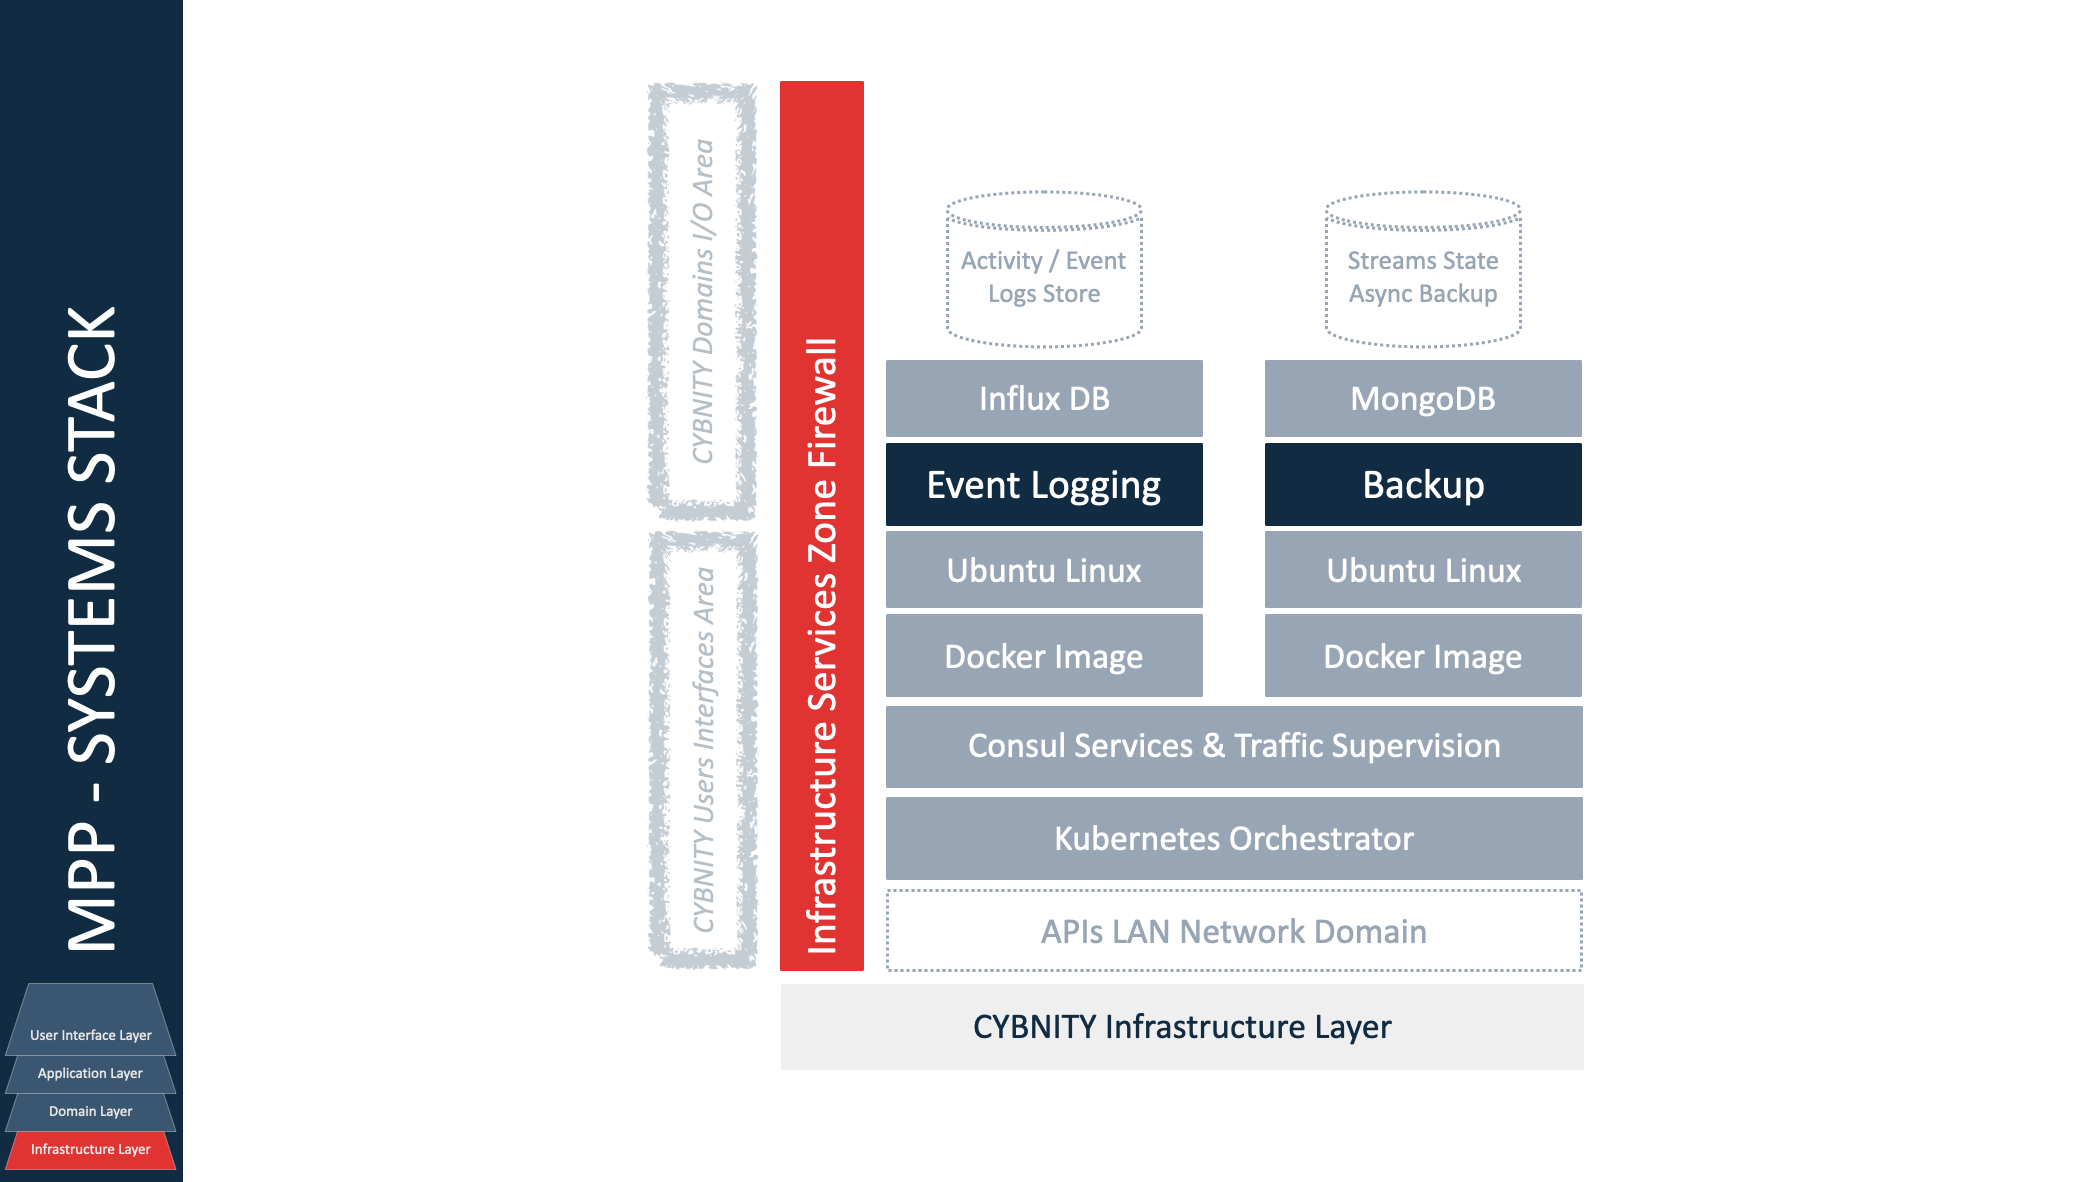
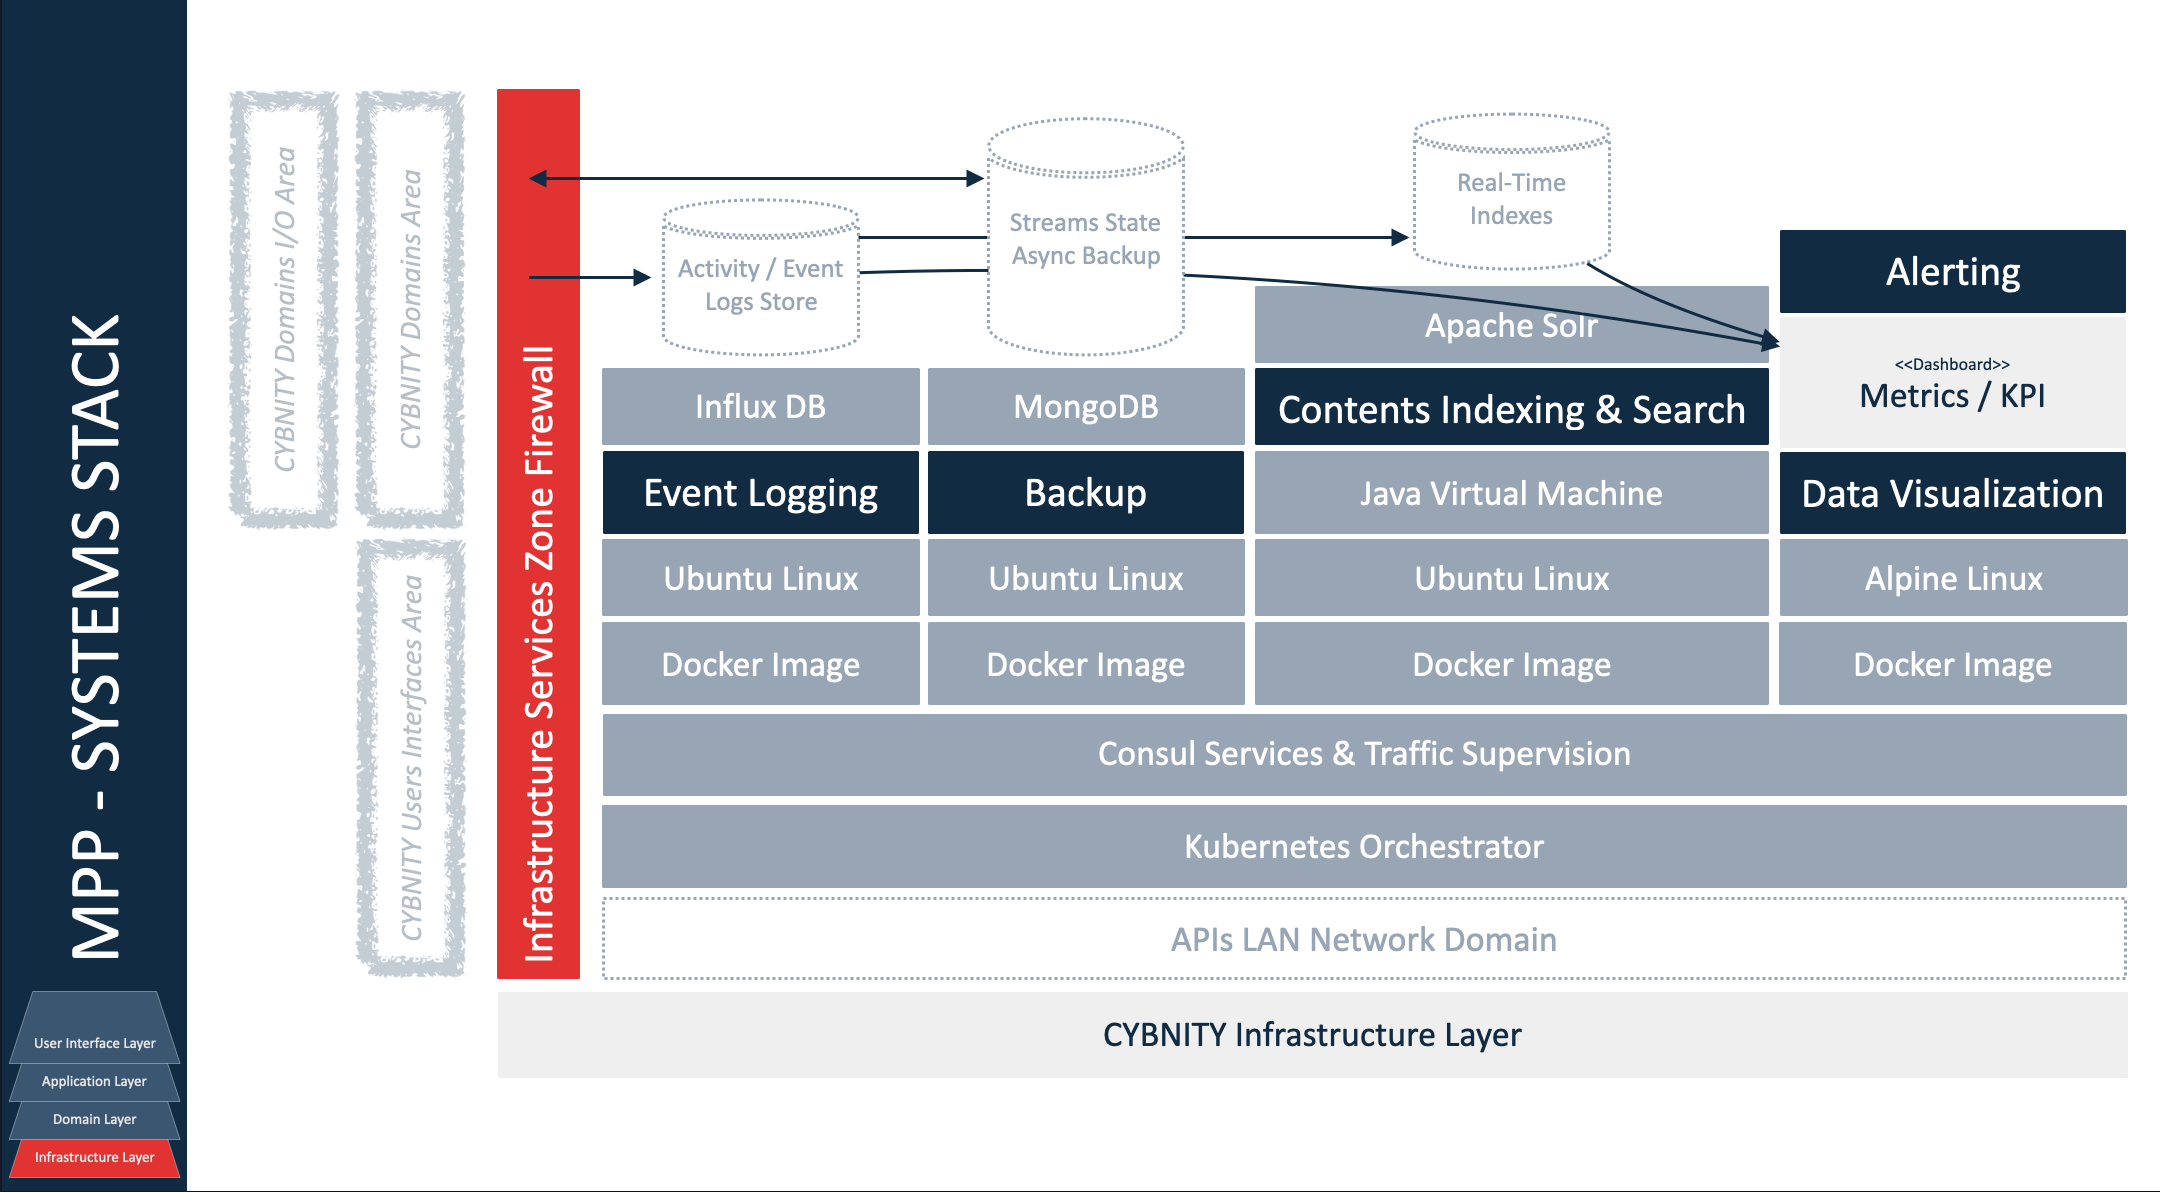
enhance infrastructure technologies

diff --git a/demonstrators-line/demonstrator-v0/technologies-stack-analysis.md b/demonstrators-line/demonstrator-v0/technologies-stack-analysis.md
@@ -104,7 +104,6 @@ The current status of technology already in the analysis stream give a general v
 | APPLICATION INFRASTRUCTURE | Single-Sign-On | [Keycloack](https://www.keycloak.org/) | X | | | SAML2.0 protocol for user authentication with SSO |
 | APPLICATION INFRASTRUCTURE | UIAM | Identity/Access Mgt | X | | | Federation, RBAC or ABAC based on attributes); SPML ? (to create users/permissions as access provisioning |
 | APPLICATION INFRASTRUCTURE | Secrets In Dynamic Infrastructure | [Vault](https://www.vaultproject.io/) | X | | | pki, credentials, passwords, api keys via secrets engines and authentication methods like JWT/LDAP/pki certif/Token for partners API integration/connectors |
-| APPLICATION INFRASTRUCTURE | End-to-end distributed tracing | Jaeger | X | | |
 | INTEGRATION INFRASTRUCTURE | Users Interactions Space | Redis | `WIN` | | | Datastore with async ports and protocol for application exchanges (e.g domain events and requests); [Redis in action book](https://redis.com/ebook/redis-in-action/); [redis persistence](https://redis.com/redis-enterprise/technology/durable-redis/) |
 | INTEGRATION INFRASTRUCTURE | Services Registry & Coordination | Apache Zookeeper | `WIN` | | | Services and data registry, configuration management with resources directory (e.g Kafka broker instances) |
 | APPLICATION / DOMAIN | Transaction Engine | Saga | X | | | [Pattern documentation](https://microservices.io/patterns/data/saga.html) for microservices |
@@ -114,15 +113,14 @@ The current status of technology already in the analysis stream give a general v
 | INTEGRATION INFRASTRUCTURE | External Systems Integration & APIs Management | [Kong API Gateway](https://github.com/Kong/kong) | X | | | |
 | INTEGRATION INFRASTRUCTURE | External Systems Integration & APIs Management | Apiman.io (async) | X | | | |
 | INTEGRATION INFRASTRUCTURE | External Systems Integration & APIs Management | Akana | X | | | |
-| INDEXING INFRASTRUCTURE | Contents Indexing | Apache Solr | `WIN` | | | Lucene indexing and query of time series contents (e.g logs, backups), documents (e.g pdf) |
-| PERSISTENCE INFRASTRUCTURE | Activity / Event Logs Store | [InfluxDB](https://www.influxdata.com/) | `WIN` | | | Time series data platform as NoSQL database for backup of event streams (write optimized) efficient for event logging |
+| INDEXING INFRASTRUCTURE | Contents Indexing & Search | Apache Solr | `WIN` | | | Lucene indexing and query of time series contents (e.g logs, backups), documents (e.g pdf) |
+| PERSISTENCE INFRASTRUCTURE | Activity / Event Logs Store | [InfluxDB](https://www.influxdata.com/) | `WIN` | | | Time series data platform as NoSQL database for efficient storage (write optimized) of systems' metrics, traces, events, and logs |
 | PERSISTENCE INFRASTRUCTURE | Streams State Async Backup | MongoDB | `WIN` | | | Autonomous dynamic backup/recovery of distributed data, collection-oriented repository |
 | PERSISTENCE INFRASTRUCTURE | In-Memory Data Grid | Infinispan | X | | In-memory distributed data store storing, managing, and processing data; [Doc](https://infinispan.org/) |
 | SECURITY INFRASTRUCTURE | Traffic Health, Configuration Mesh & Networking | Consul | `WIN FOR SERVER-SIDE` | | | Service registration and discovery, health checking, distributed key-value store, TLS, ACL to data & api, key generation, dynamic load balancing, multi-data centers support, data encryption, REST api, CLI, administration web-ui |
-| SECURITY INFRASTRUCTURE | Services Observability, Traffic & Security Monitoring | Istio | `ALT FOR SERVER-SIDE` | | | Settings mesh of container urls to maintain service information like  track/monitor services, load balancing, services discovery and registration; competitor of Consul about several capabilities |
-| MONITORING INFRASTRUCTURE | APIs Monitoring | Grafana | X | | | |
-| MONITORING INFRASTRUCTURE | APIs Monitoring | OpenTelemetry | X | | | |
-| MONITORING INFRASTRUCTURE | APIs Monitoring | Jaeger | X | | | |
+| SECURITY INFRASTRUCTURE | Services Observability, Traffic & Security Monitoring | Istio | `ALT FOR SERVER-SIDE` | | | Settings mesh of container urls to maintain service information like track/monitor services, load balancing, services discovery and registration; competitor of Consul about several capabilities |
+| MONITORING INFRASTRUCTURE | Data Visualization & Alerting | Grafana | `WIN` | | | Dashboard, alert and analytics of systems events (from Activity/Event logs store) |
+| MONITORING INFRASTRUCTURE | System Monitoring | Telegraf Agent | `WIN` | | | Client-side agent installed on a system (e.g application, ui backend, microservice via Java client library, or pre-built agent) that push events (e.g metrics, logs, traces) to Activity/Event Logs Store |
 | OPERATING INFRASTRUCTURE | Linux Operating System | Ubuntu 64bits kernel | `WIN` | | | LTS minimal optimized version, security patch and vulnerability monitoring by Canonical |
 | OPERATING INFRASTRUCTURE | Executable System | Docker Image | `WIN` | | | |
 | OPERATING INFRASTRUCTURE | Infra-As-Code Execution | Microk8s | X | | | Kubernetes for laptop, local dev deployment |
@@ -152,9 +150,12 @@ The criteria checked about advantages (ADV) are:
 
 | CANDIDATE TECHNOLOGY | Description | Comments | ANALYSIS RESULT |
 | :--- | :--- | :--- | :--- |
-| [Jaeger](https://www.jaegertracing.io/) |End-to-end distributed tracing| | |
-| [Open Telemetry](https://grafana.com/oss/opentelemetry) |Tools, APIs, DSKs to instrument, generate, collect and export telemetry data (e.g metrics, logs, traces)| | |
-| Promotheus |Pull-based system as monitoring solution allowing applications to publish the required metrics fetched by Promotheus periodically; key/value datastore utilizing LevelDB for the indices and ecah metric is stored in its own file<br>**ADV03:** compatible with Grafana for data visualization; PromQL for query; alert manager with notification tasks (deduplication, silencing, grouping features)|**Advantage:** take less disk space than InfluxDB; focused on metrics recording<br>**Disadvantage:** independant server without multi-nodes support to support load growth|`OK for metrics recording only`|
+| [Jaeger](https://www.jaegertracing.io/) |Systems monitoring & troubleshooting as end-to-end distributed systems tracing; monitoring of microservices-based distributed systems about context propagation, transactions, root causes, services dependencies, performance/latencies<br>**ADV01:** Apache 2; vendor specific<br>**ADV03:** compatible with trace storages (e.g Cassandra, InfluxDB, in-memory storage); Jaeger WebUI (React app); backend provided over Docker images with Kubernetes; expose by default Prometheus metrics and observable over stdout standard logs in zap structure; Jaeger-client in application, communicating with jaeger-agent embedded on execution container which directly push to storage database or via Kafka|**Advantage:** TLS securized log collected via Kafka<br>**Disadvantage:** none integration with InfluxDB and/or via replaced agent with Open Telemetry|`KO`|
+| [Open Telemetry](https://grafana.com/oss/opentelemetry) |Tools, APIs, SDKs to instrument, generate, collect and export telemetry data (e.g metrics, logs, traces) as standard in place of vendor specific collectors<br>**ADV02:** instrumentation library per language; apk, deb, rpm, windows, macos installation<br>**ADV03:** single collector binary deployed as agent or gateway; end-to-end implementation to generate, emit, collect, process, export telemetry data; support multiple context propagation formats; collector possibility to be executed in Docker container or Kubernetes node<br>**ADV04:** open-standard semantic conventions to ensure vendor-agnostic data collection|**Advantage:** collector is a vendor-neutral way to receive, process, transform and export data; unique agent for observability data (logs, metrics, traces) of systems; usable with several specific vendor backend solutions<br>**Disadvantage:** agent implementation is not integrated with InfluxDB|`OK`|
+| Filebeat |Read (input) log files (e.g generated by Log4j, system, container custom log), forward to centralized log data output (e.g Kafka, Redis) via harverster<br>**ADV02:** installed as agent on server; send data to Logstach instance; Debian, RPM, Linux installation package<br>**ADV03:** configuration by logs directory definition to monitor/collect on agent side; libbeat aggregates the events (one by one log detected) and send it to the output; SSL and certificate based communication to Logstash output|**Advantage:** lot of input file types supported (e.g containers); low resource impact on client<br>**Disadvantage:** require Logstash, Redis or Kafka server side for treatment/processing/filtering/routing of event to other outputs (e.g InfluxDB)|`KO`|
+| Logstash |Data collection engine with real-time pipeline capabilities; server collecting log events from Filebeat and ensuring translation/filtering/treatment<br>**ADV01:** Apache 2 license; vendor specific<br>**ADV02:** require JVM 11/17; docker image<br>**ADV03:** InfluxDB plugin; Linux installer|**Advantage:** Output plugins quantity (e.g InfluxDB) and input modules (e.g standard formatted logs from solutions)|`OK`|
+| [Telegraf](https://www.influxdata.com/time-series) |Server-based agent collecting and sending all metrics and events from systems monitored<br>**ADV02:** written in Go withtout external dependencies; Debian/Ubuntu/CentOS/Suse/BSDs/macOS installations; low memory footprint impact<br>**ADV03:** Java/Javascript/18 languages clients library; Docker image; collector for Redis, Kafka, Docker and more 200+ plugins for agent; parsing capabilities of the input data to format to metrics|**Advantage:** large input plugins for integration to InfluxDB metrics|`OK`|
+| Prometheus |Pull-based system as monitoring solution allowing applications to publish the required metrics fetched by Promotheus periodically; key/value datastore utilizing LevelDB for the indices and each metric is stored in its own file<br>**ADV01:** Apache 2<br>**ADV03:** compatible with Grafana for data visualization; PromQL for query; alert manager with notification tasks (deduplication, silencing, grouping features)|**Advantage:** take less disk space than InfluxDB; focused on metrics recording<br>**Disadvantage:** independent server without multi-nodes support to support load growth|`OK for metrics recording only`|
 | InfluxDB |Open source Time-Series Database (TSDB) developed by Influxdata, primarily used to process monitoring data as monitoring solution<br>**ADV01:** MIT license<br>**ADV02:** Linux, Windows, OSX, Docker, Kubernetes, Raspberry Pi installations supported<br>**ADV02:** monolithic data storage for indices and metric values<br>**ADV03:** developed in Go language; sharding for partitioning method; primary database model as time series DBMS; secondary database model as spatial DBMS; high-availability storage of time-series data; use SQL queries to retrieve data (stored in a key-value pair fashion); support data via HTTP, TCP and JSON/UDP protocols; Kapacitor for background processing and data alerting; Chronograf for UI; integration with Grafana for visualization; InfluxQL query language; numeric data and strings predefined data types; no XML support; no Map Reduce capability|**Advantage:** easy to set up; great alternative to ElasticSearch if monitoring is main purpose|**Advantage:** query performance (45x better than Cassandra for read); 2X better than Cassandra on disk compression; suitable for event logging|`OK for event logging`|
 | [Apache Solr](https://solr.apache.org/) |Scalable to build search applications, fault tolerant, providing distributed indexing, replication and load-balanced querying, automated failover and recovery, centralized configuration<br>**ADV01:** Apache 2<br>**ADV02:** Docker and Kubernetes compatible; search engine based on Apache Lucene java library to create inverted index (page-centric data structure like convertion of document to words, is converted into a keyword-centric structure); HTTP/XML web api interface for query of JSON documents; scalable only via SolrCloud and zookeeper; eventual consistency concepts to ensure consistency in a distributed system; optimistic locking for transaction<br>**ADV03** text search and related operations; support JSON or XML; sharding (distributed way to store and process data); schema-less mapping; full-text search; real-time indexing; dynamic clustering; support RDBMs (Oracle, NoSQL); primary database model as search engine; secondary database model as spatial DBMS; customizable predefined data types and automatic typing; secondary index for all fields automatically indexed; Java API, RESTful HTTP/JSON API; commands triggered on index changes; Map Reduce capability (and streaming expressions to reduce)<br>**ADV04:** since 2004, with large community; [Stratio github project](https://github.com/Stratio/cassandra-lucene-index) for integration between Cassandra an Solr|**Advantage:** level of customization for search queries assembled and executed; flexibility for indexing several types of contents; index changes triggering; rich documentation and extension capabilities|`COOL`|
 | Elastic Search |Open source search engine<br>**ADV02:** based on Lucene library<br>**ADV03:** sharding (distributed way to store and process data); schema-less mapping|**Disadvantage:** performance problem feedbacks; cost growth in production usage; less open than Apache Solr|`KO`|
@@ -223,6 +224,8 @@ The acceptance level per differentiation criteria is evaluated as:
 | Apache Flink | | | | | | | |
 | Apache Solr | | | | | | | |
 | MongoDB | | | | | | | |
+| Telegraf | | | | | | | |
+| Grafana | | | | | | | |
 | InfluxDB | | | | | | | |
 | Spring Core | | | | | | | |
 | Spring Boot | | | | | | | |
